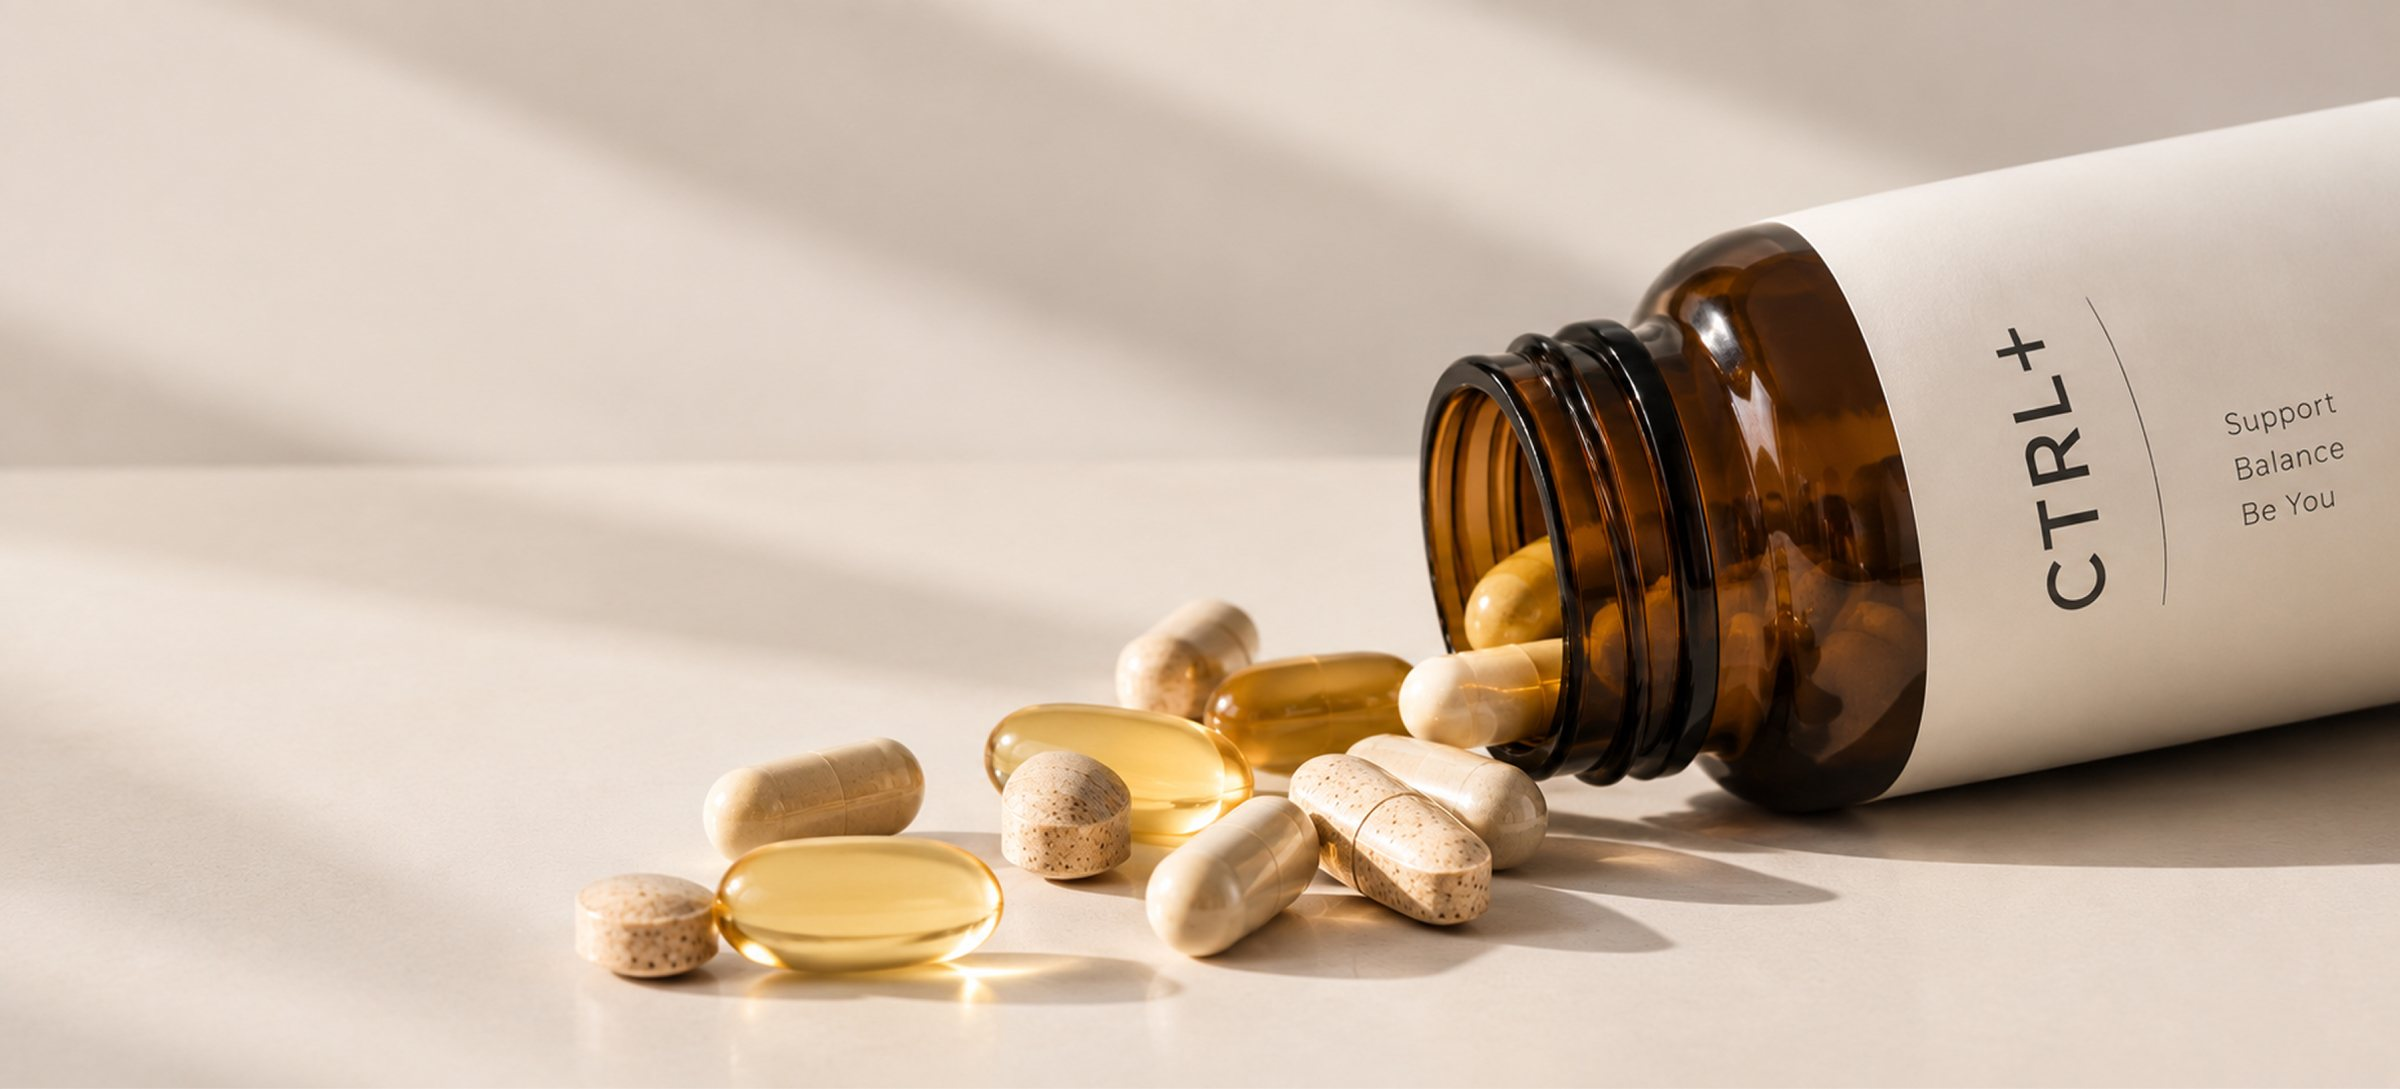
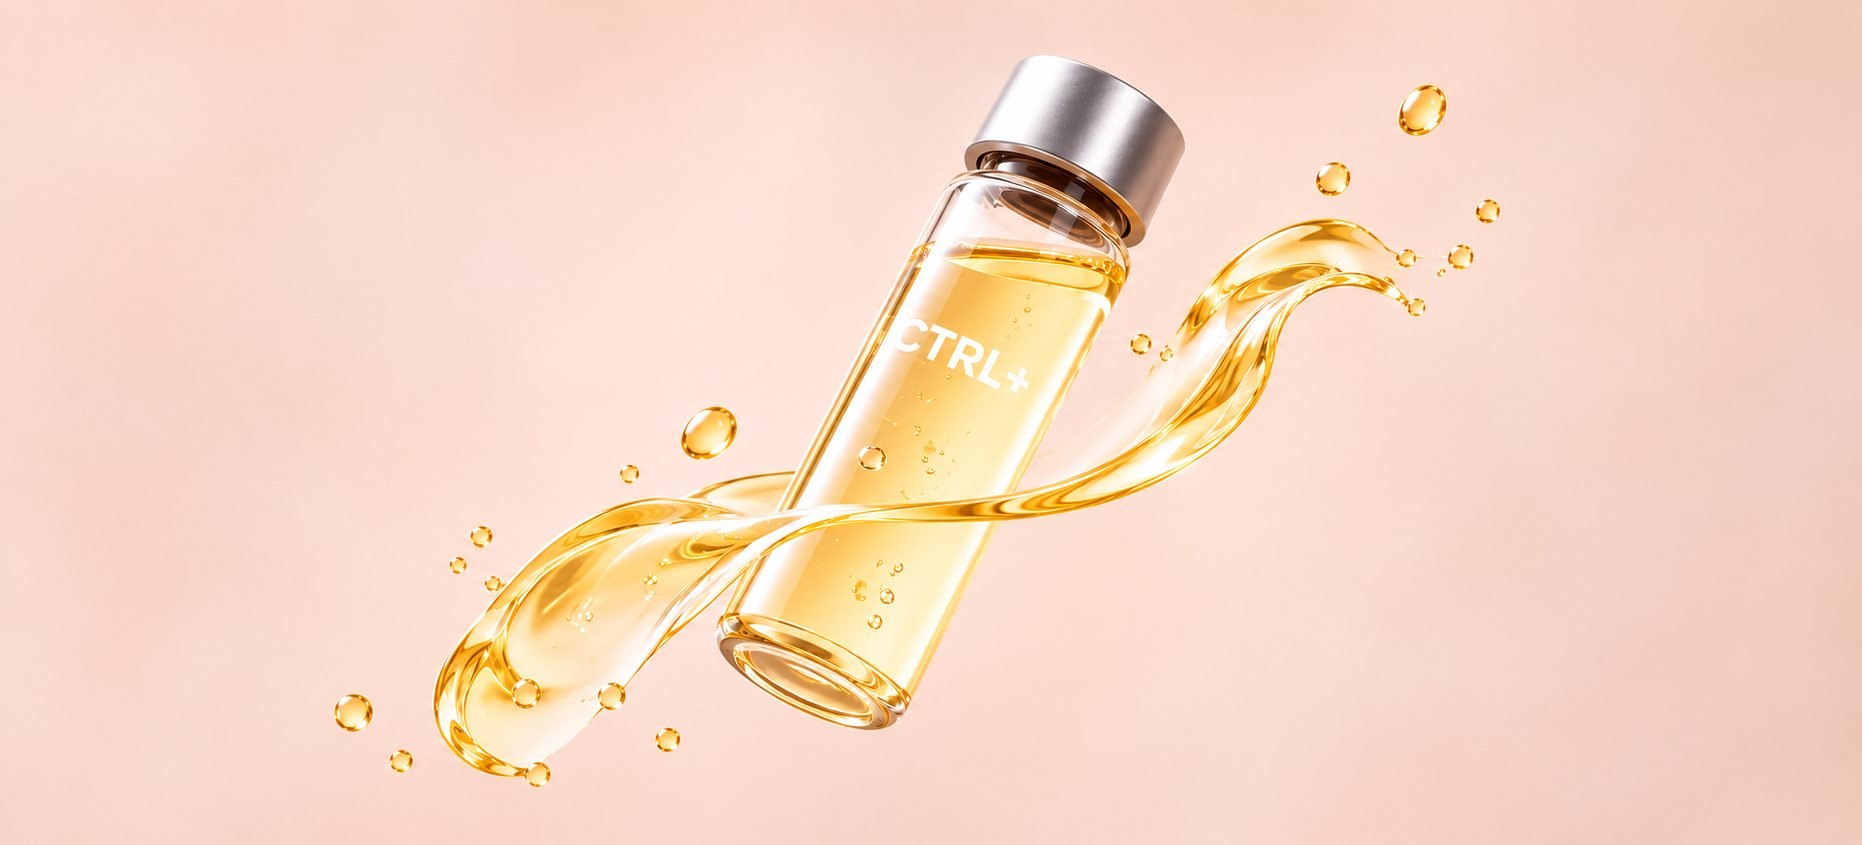
CTRL+ header nowy

diff --git a/projekty/ctrl.html b/projekty/ctrl.html
@@ -66,7 +66,7 @@
 
       <div class="case-hero__media container">
         <picture>
-          <img src="../assets/images/projekty/ctrl-header.jpg" alt="Butelka suplementu CTRL+ z wysypanymi kapsułkami" width="1200" height="544">
+          <img src="../assets/images/projekty/ctrl-header.jpg?v=2" alt="Fiolka suplementu CTRL+ z rozlanym złotym płynem" width="1200" height="544">
         </picture>
       </div>
     </section>
